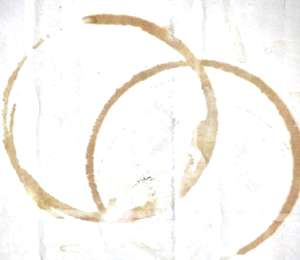
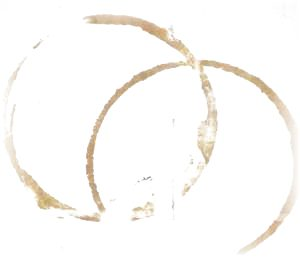
Cerbi Demo: coffee ring blends with no visible tile edge (#5)
Claude-Session: https://claude.ai/code/session_01FctqBytgs5q5YMAihzhbnr

diff --git a/cerbi/index.html b/cerbi/index.html
@@ -190,7 +190,8 @@
       background: linear-gradient(to bottom, transparent calc(33.3% - 2px), rgba(0,0,0,.18) 33.3%, rgba(255,255,255,.5) calc(33.3% + 1px), transparent calc(33.3% + 4px),
                                               transparent calc(66.6% - 2px), rgba(0,0,0,.18) 66.6%, rgba(255,255,255,.5) calc(66.6% + 1px), transparent calc(66.6% + 4px)); }
     .p-ring { position: absolute; aspect-ratio: 300 / 260; pointer-events: none; mix-blend-mode: multiply; transform: rotate(var(--rot));
-      background: url("../assets/paper/coffee-rings.jpg") center / contain no-repeat; }
+      background: url("../assets/paper/coffee-rings.jpg") center / contain no-repeat;
+      -webkit-mask-image: radial-gradient(closest-side, #000 88%, transparent); mask-image: radial-gradient(closest-side, #000 88%, transparent); }
     .p-stamp {
       position: absolute; transform: rotate(var(--r)); padding: .2em .7em; border: 3px double rgba(178, 34, 34, .75); border-radius: 4px;
       color: rgba(178, 34, 34, .75); font: 800 1.35em/1.05 "Plex Mono", monospace; letter-spacing: .14em; text-align: center; mix-blend-mode: multiply; pointer-events: none;
